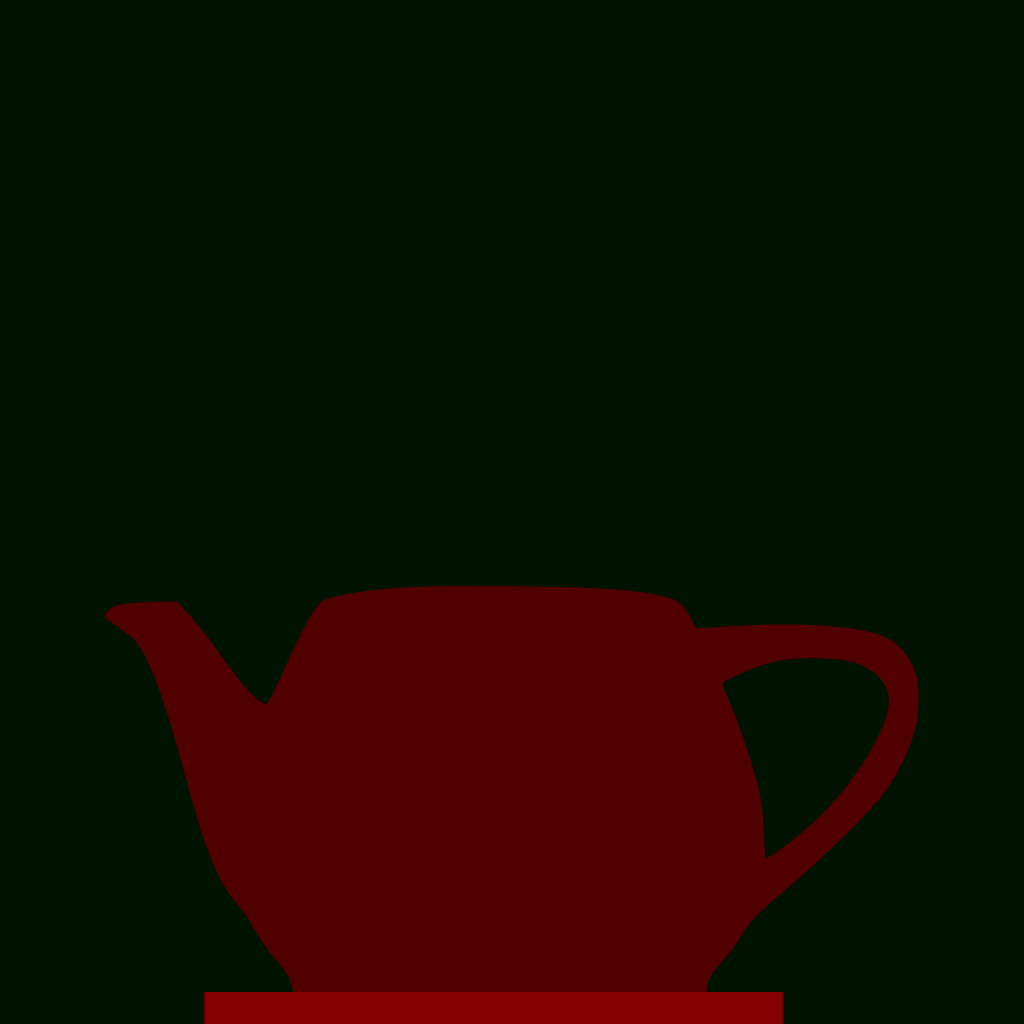
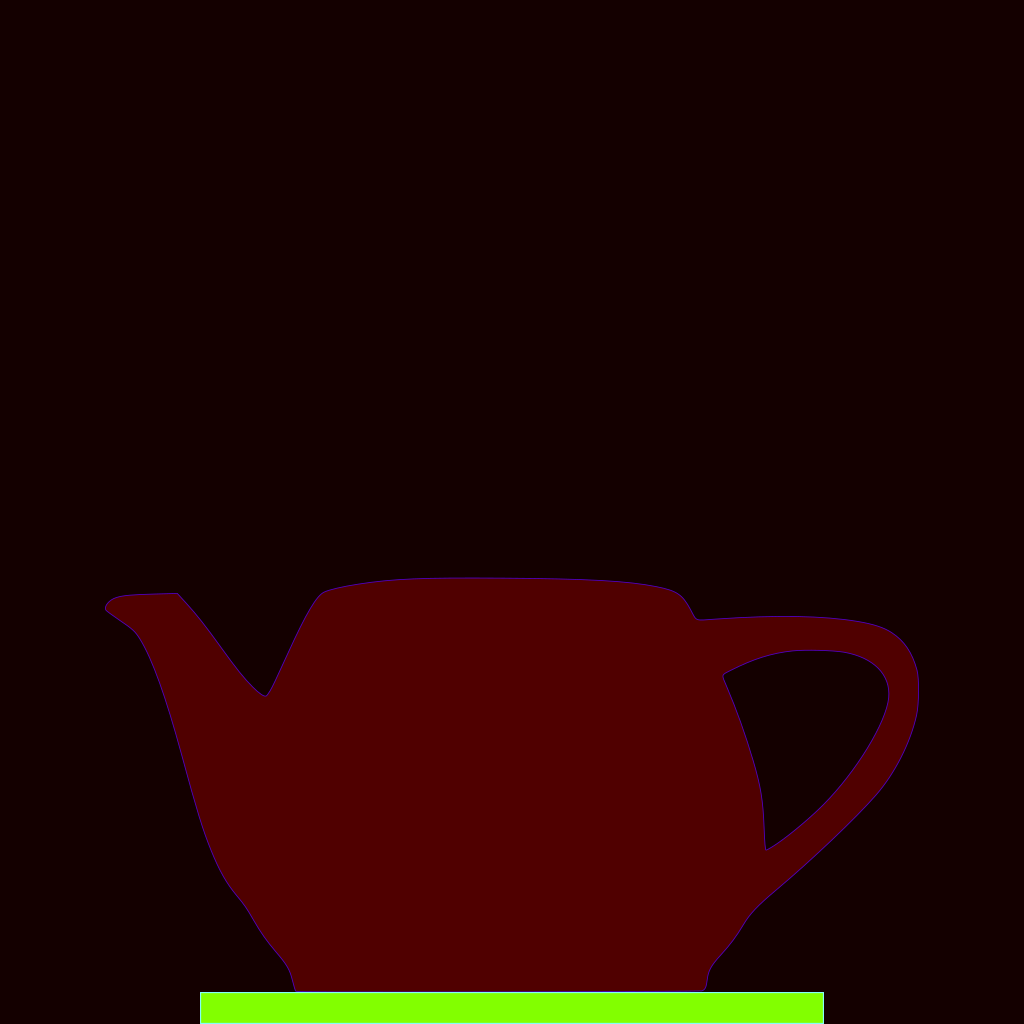
kettle with fast ui

diff --git a/utils.py b/utils.py
@@ -1,0 +1,117 @@
+#!/usr/bin/env python
+# -*- coding: utf-8 -*-
+
+"""Utility functions for numerical simulations"""
+
+# Copyright (c) 2021 Peter Volgyesi
+#
+# This program is free software: you can redistribute it and/or modify
+# it under the terms of the GNU General Public License as published by
+# the Free Software Foundation, either version 3 of the License, or
+# (at your option) any later version.
+#
+# This program is distributed in the hope that it will be useful,
+# but WITHOUT ANY WARRANTY; without even the implied warranty of
+# MERCHANTABILITY or FITNESS FOR A PARTICULAR PURPOSE.  See the
+# GNU General Public License for more details.
+#
+# You should have received a copy of the GNU General Public License
+# along with this program. If not, see <http://www.gnu.org/licenses/>.
+
+import numpy as np
+import matplotlib.cm as cm
+from time import time
+import taichi as ti
+
+class Chrono:
+    """Simple benchmarking tool (time log)"""
+
+    def __init__(self):
+        self.stamps = []
+        self.log("start")
+
+    def log(self, event):
+        self.stamps.append((event, time()))
+
+    def __repr__(self):
+        total = self.stamps[-1][1] - self.stamps[0][1]
+        tokens = []
+        tokens.append(f"Total: {1000.0 * total:.1f} ms")
+        for (_, start), (event, end) in zip(self.stamps[:-1], self.stamps[1:]):
+            tokens.append(f"\n\t{event}: {1000.0 * (end - start):.1f} ms ")
+        return "".join(tokens)
+
+
+def load_problem(filename, dtype=np.float32):
+    """Load a problem from a PNG file.
+
+    The PNG file is expected to have the following R, G, B channels:
+    - R: the diffusivity parameter of the material
+    - G: the sources of heat
+    - B: the outline (background) image
+
+    Returns the following (normalized if dtype=float) numpy arrays:
+    (diffusivity, sources, outline)
+    """
+    problem = ti.imread(filename)
+
+    diffusivity = np.asarray(problem[:, :, 0], dtype)
+    sources = np.asarray(problem[:, :, 1], dtype)
+    outline = np.asarray(problem[:, :, 2], dtype)
+
+    if np.issubdtype(dtype, np.floating):
+        diffusivity /= 255.0
+        sources /= 255.0
+        outline /= 255.0
+
+    return diffusivity, sources, outline
+
+
+def convert_to_field(arr, dtype=ti.float32):
+    """Convert a numpy array to a taichi field"""
+    field = ti.field(dtype, arr.shape)
+    field.from_numpy(arr)
+    return field
+
+
+@ti.kernel
+def _render(
+    background: ti.template(),
+    field: ti.template(),
+    lut: ti.template(),
+    img: ti.template()):
+
+
+    for i, j in field:
+        idx = 0
+        idx = min(max(0, int(field[i, j] * 255)), 255)
+        if any(background[i, j] > 0):
+            img[i, j] = background[i, j]
+        else:
+            img[i, j] = lut[idx]
+
+
+class Renderer:
+    """Fast field rendering with outline/background and colormaps.
+
+    background is a numpy array of shape (size_x, size_y)
+    """
+
+    def __init__(self, background, cmap="inferno"):
+        self.lut = ti.Vector.field(n=3, dtype=ti.uint8, shape=(256,))
+        colormap = cm.get_cmap(cmap)
+        for i in range(256):
+            self.lut[i] = colormap(i/255.0, bytes=True)[:3]
+
+
+        shape = background.shape
+        self.background = ti.Vector.field(n=3, dtype=ti.uint8, shape=shape)
+        self.background.from_numpy(
+            np.repeat(255 * background[..., np.newaxis], 3, axis=2))
+
+        self.img = ti.Vector.field(n=3, dtype=ti.uint8, shape=shape)
+
+
+    def render(self, field):
+        _render(self.background, field, self.lut, self.img)
+        return self.img

diff --git a/heatsim.py b/heatsim.py
@@ -1,55 +1,78 @@
+#!/usr/bin/env python
+# -*- coding: utf-8 -*-
+
+"""Heat equation in 2D using the explicit method."""
+
+# Copyright (c) 2021 Peter Volgyesi
+#
+# This program is free software: you can redistribute it and/or modify
+# it under the terms of the GNU General Public License as published by
+# the Free Software Foundation, either version 3 of the License, or
+# (at your option) any later version.
+#
+# This program is distributed in the hope that it will be useful,
+# but WITHOUT ANY WARRANTY; without even the implied warranty of
+# MERCHANTABILITY or FITNESS FOR A PARTICULAR PURPOSE.  See the
+# GNU General Public License for more details.
+#
+# You should have received a copy of the GNU General Public License
+# along with this program. If not, see <http://www.gnu.org/licenses/>.
+
 import numpy as np
 import taichi as ti
 
-ti.init(arch=ti.gpu)
+#ti.init(arch=ti.gpu)
+ti.aot.start_recording('debug.yml')
+ti.init(arch=ti.cc)
+import utils
 
+alpha, sources, outline = utils.load_problem("kettle.png")
+size_x, size_y = alpha.shape[:2] # size of the domain
 
-size_x, size_y = 1024, 768 # size of the domain
-delta_x = 1  # scaling
-alpha = 2  # material diffusivity
-delta_t = (delta_x ** 2)/(4 * alpha) # numerical stability constraint
+alpha = 255.0 * alpha # scaling (mm2/s)
+delta_x = 0.25  # scaling (mm/px)
+delta_t = (delta_x ** 2)/(4 * alpha.max()) # numerical stability constraint
 
-# Initial condition
-t0 = 0.0
+gamma = utils.convert_to_field((alpha * delta_t) / (delta_x ** 2))
+sources = utils.convert_to_field(sources)
 
-# Boundary conditions (fixed temperature)
-t_top = 0.0
-t_left = 0.0
-t_bottom = 1.0
-t_right = 0.0
-
-gamma = (alpha * delta_t) / (delta_x ** 2)
-
-
-initial = np.full((size_x, size_y), t0, dtype=np.float32)
-initial[: , -1] = t_top
-initial[:, 0] = t_bottom
-initial[0, :] = t_left
-initial[-1, :] = t_right
-
-t = ti.field(dtype=float, shape=(size_x, size_y))
-t_next = ti.field(dtype=float, shape=t.shape)
-t.from_numpy(initial)
-t_next.from_numpy(initial)
-
-
+# We are using 0 as boundary/initial conditions (sources are added later)
+t = ti.field(dtype=ti.float32, shape=(size_x, size_y))
+t_next = ti.field(dtype=ti.float32, shape=t.shape)
 
 @ti.kernel
 def diffusion(t: ti.template(), t_next: ti.template()):
     for i, j in t:
-        if 0 < i < size_x - 1 and 0 < j < size_y - 1:
-            t_next[i, j] = t[i, j] + gamma * (
-                t[i+1, j] + t[i-1, j] + t[i, j+1] + t[i, j-1] - 4*t[i, j])
+        if (0 < i < size_x - 1) and (0 < j < size_y - 1):
+            if sources[i, j] > 0:
+                t_next[i, j] = sources[i, j]
+            else:
+                t_next[i, j] = t[i, j] + gamma[i, j] * (
+                    t[i+1, j] + t[i-1, j] + t[i, j+1] + t[i, j-1] - 4*t[i, j])
 
 
-gui = ti.GUI("Heatsim", res=(size_x, size_y))
+scene = utils.Renderer(outline)
+gui = ti.GUI("Heatsim", res=(size_x, size_y), fast_gui=True)
 while not gui.get_event(ti.GUI.ESCAPE):
+    chrono = utils.Chrono()
+
     diffusion(t, t_next)
+    t, t_next = t_next, t
+    chrono.log("diffusion")
+
 
     if gui.is_pressed(ti.GUI.LMB):
         mouse_x, mouse_y = (gui.get_cursor_pos())
-        t_next[int(mouse_x * size_x), int(mouse_y * size_y)] += 10.0
+        t[int(mouse_x * size_x), int(mouse_y * size_y)] += 1.0
+    chrono.log("mouse")
 
-    t, t_next = t_next, t
-    gui.set_image(t)
+    img = scene.render(t)
+    chrono.log("render")
+
+    gui.set_image(img)
+    chrono.log("set_image")
+
     gui.show()
+    chrono.log("show")
+
+    #print(chrono)
